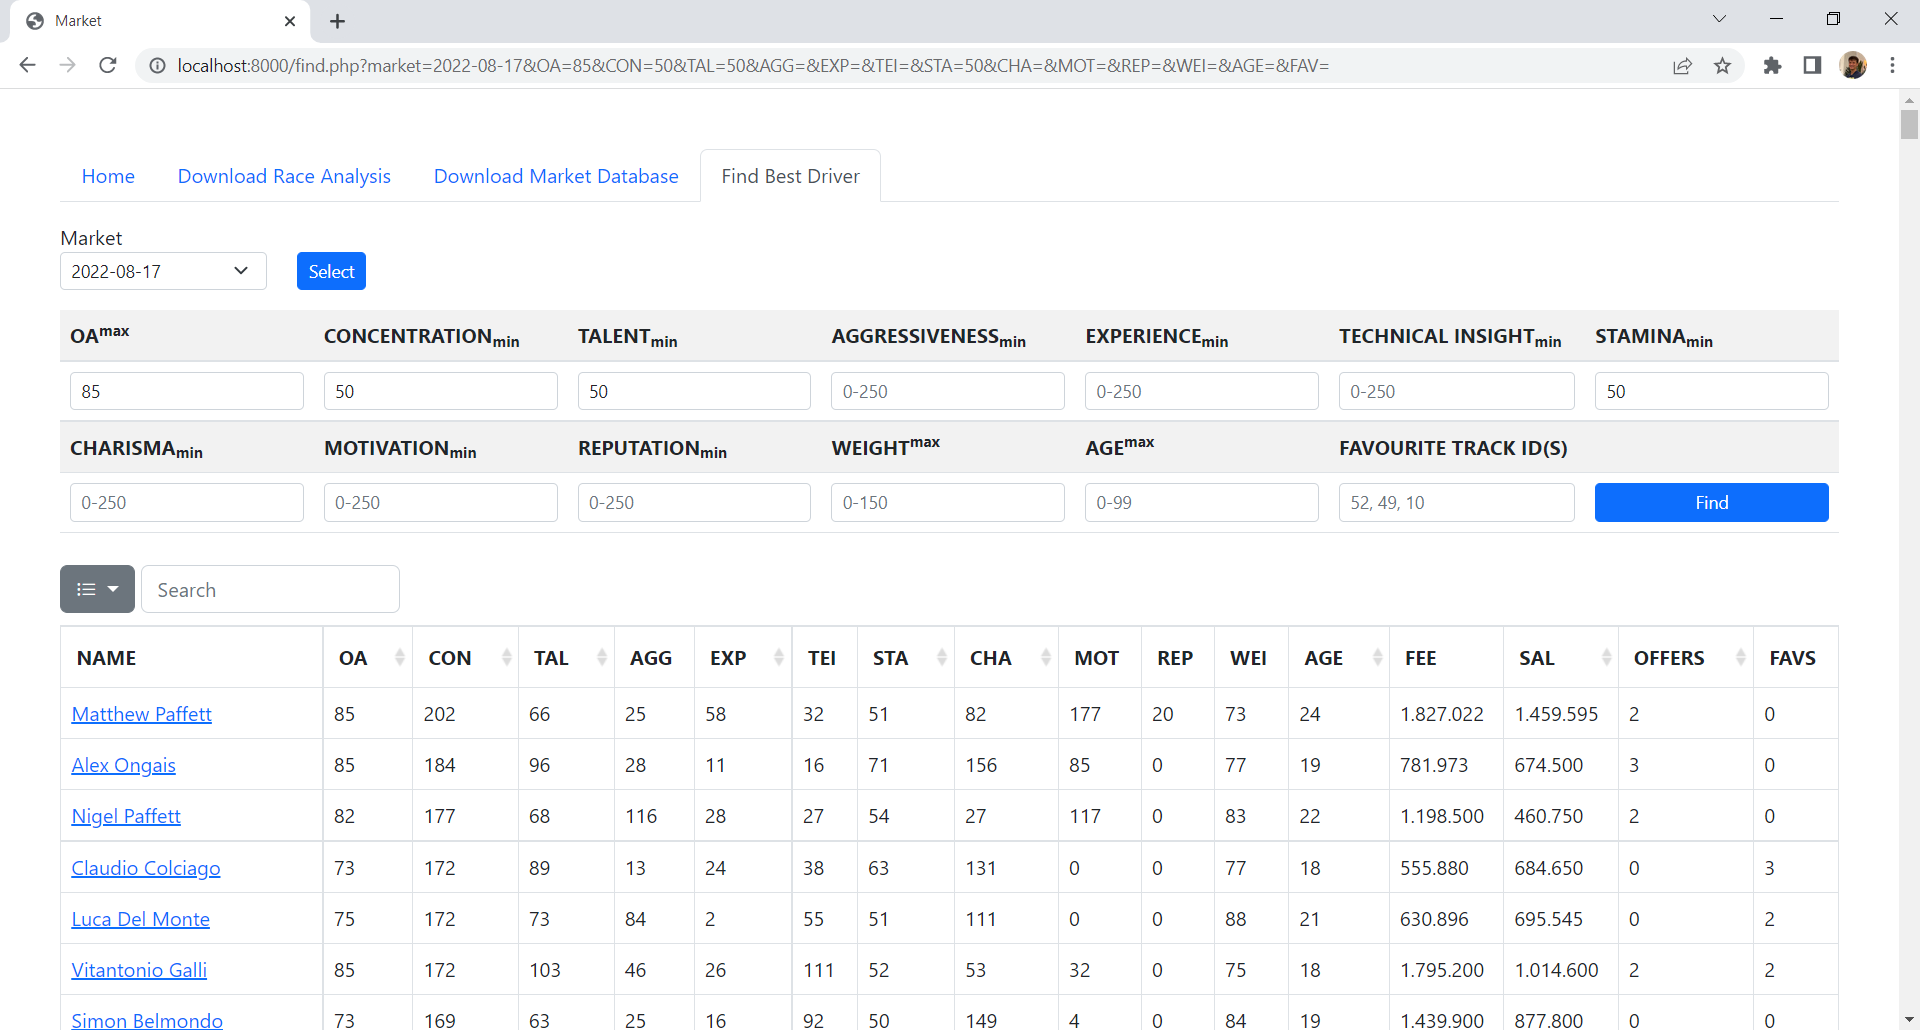
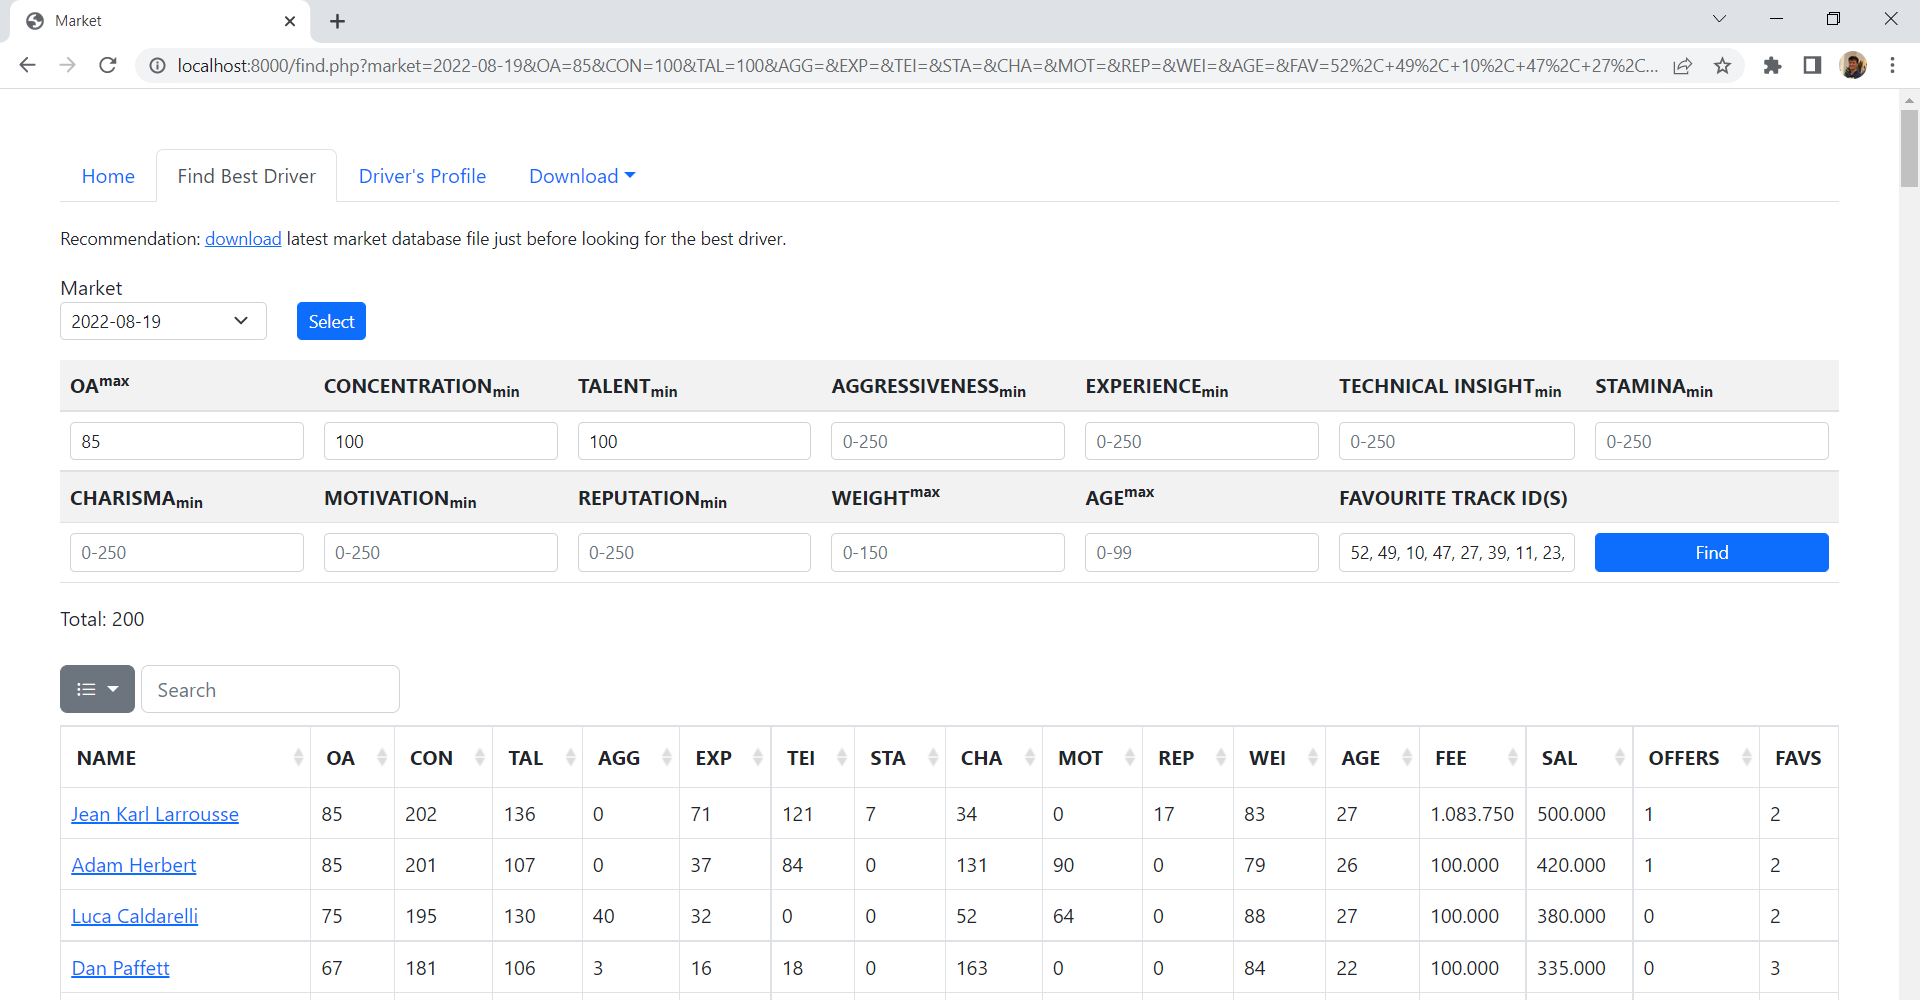
Fix issues, update readme

diff --git a/profile.php b/profile.php
@@ -1,27 +1,35 @@
 <?php
 
 /**
- * Find Driver's Profile by ID among market database files
+ *
+ * Find Driver's Profile by ID against downloaded market database files
  */
+
+// Perform search against limited number of market files
+const MARKET_FILES_LIMIT = 200;
+
 $marketFolder = 'market' . DIRECTORY_SEPARATOR;
 $marketFiles = glob($marketFolder . '*.php');
+rsort($marketFiles);
+$marketFiles = array_slice($marketFiles, 0, MARKET_FILES_LIMIT);
+
 $profile = [];
 $marketFile = '';
 
 if (!empty($_GET['id'])) {
     $driverId = (int) $_GET['id'];
 
-    rsort($marketFiles);
     foreach ($marketFiles as $marketFile) {
         $content = file_get_contents($marketFile);
-        if (false !== strpos($content, "'ID' => $driverId")) {
+        if (false !== strpos($content, "'ID' => $driverId,")) {
             $drivers = require $marketFile;
             foreach ($drivers['drivers'] as $driver) {
                 if ($driver['ID'] === $driverId) {
                     $profile = $driver;
-                    break 2;
+                    break;
                 }
             }
+            break;
         }
     }
 }
@@ -39,7 +47,6 @@ if (!empty($_GET['id'])) {
 
 <body class="m-5">
     <?php
-    $page = pathinfo(__FILE__, PATHINFO_FILENAME);
     include 'nav.php';
     ?>
     <div class="row">
@@ -64,15 +71,17 @@ if (!empty($_GET['id'])) {
                         <button class="btn btn-primary btn-sm">Find</button>
                     </div>
                 </div>
-                <p class="mt-3">
-                    Search will be performed among <b><?= count($marketFiles) ?></b> market database files.
+                <p class="mt-3 mb-0">
+                    Search will be performed against maximum of <b><?= MARKET_FILES_LIMIT ?></b> latest market database files.
+                </p>
+                <p>You have got <b><?= count($marketFiles) ?></b> market database files on your computer.
                 </p>
             </form>
         </div>
         <div class="col w-25">
             <?php if (!empty($profile)) : ?>
                 <p class="text-success">
-                    <b><?= $driver['NAME'] ?></b> (<?= $driver['AGE'] ?>)
+                    <b><a href="https://www.gpro.net/gb/DriverProfile.asp?ID=<?= $driver['ID'] ?>" target="_blank"><?= $driver['NAME'] ?></a></b> (<?= $driver['AGE'] ?>)
                     from database <b><?= $marketFile ?></b>
                 </p>
                 <table class="table table-striped table-sm font-monospace">

diff --git a/find.php b/find.php
@@ -1,5 +1,9 @@
 <?php
 
+/**
+ *
+ * Find best driver on the market
+ */
 $marketFolder = 'market' . DIRECTORY_SEPARATOR;
 
 $marketFiles = glob($marketFolder . '*.php');
@@ -186,7 +190,6 @@ foreach ($driversGrouped as $sortedBy => $driversLevel1) {
 
 <body class="m-5">
 <?php
-$page = pathinfo(__FILE__, PATHINFO_FILENAME);
 include 'nav.php';
 ?>
     <form method="GET">
@@ -195,14 +198,9 @@ include 'nav.php';
             <a href="market.php">Download</a> latest drivers market database file.
         </p>
         <?php endif; ?>
-        <div class="row">
-            <div class="col">
-                Recommendation: <a href="market.php">download</a> latest market database file just before looking for the best driver.
-            </div>
-            <div class="col">
-                <q>The # of offers on drivers can change continuously, and on staff decision day you'll see more differences</q>, said <a href="https://www.gpro.net/gb/forum/ViewTopic.asp?TopicId=30861&PostId=4916975#post4916975" target="_blank">Miel Soeterbroek</a>.
-            </div>
-        </div>
+        <p>
+        <small>Recommendation: <a href="market.php">download</a> latest market database file just before looking for the best driver.</small>
+        </p>
         <div class="w-25 mb-3">
             <label for="market">Market</label>
             <div class="row">

diff --git a/market.php b/market.php
@@ -1,6 +1,7 @@
 <?php
 
 /**
+ *
  * Fetch drivers market into PHP array market/Y-m-d.php
  */
 
@@ -45,11 +46,11 @@ if (php_sapi_name() === 'cli') {
     <meta name="viewport" content="width=device-width, initial-scale=1">
     <title>Download Market Database</title>
     <link href="https://cdn.jsdelivr.net/npm/bootstrap@5.2.0/dist/css/bootstrap.min.css" rel="stylesheet" integrity="sha384-gH2yIJqKdNHPEq0n4Mqa/HGKIhSkIHeL5AyhkYV8i59U5AR6csBvApHHNl/vI1Bx" crossorigin="anonymous">
+    <script defer src="https://cdn.jsdelivr.net/npm/bootstrap@5.1.3/dist/js/bootstrap.bundle.min.js" integrity="sha384-ka7Sk0Gln4gmtz2MlQnikT1wXgYsOg+OMhuP+IlRH9sENBO0LRn5q+8nbTov4+1p" crossorigin="anonymous"></script>
 </head>
 
 <body class="m-5">
     <?php
-    $page = pathinfo(__FILE__, PATHINFO_FILENAME);
     include 'nav.php';
     ?>
     <div class="mt-3"><?= $message ?></div>

diff --git a/postrace.php b/postrace.php
@@ -1,6 +1,7 @@
 <?php
 
 /**
+ *
  * Fetch raw post race analysis seasons/SS/SXXRYY TrackName.html
  */
 
@@ -63,11 +64,11 @@ if (php_sapi_name() === 'cli') {
     <meta name="viewport" content="width=device-width, initial-scale=1">
     <title>Download Race Analysis</title>
     <link href="https://cdn.jsdelivr.net/npm/bootstrap@5.2.0/dist/css/bootstrap.min.css" rel="stylesheet" integrity="sha384-gH2yIJqKdNHPEq0n4Mqa/HGKIhSkIHeL5AyhkYV8i59U5AR6csBvApHHNl/vI1Bx" crossorigin="anonymous">
+    <script defer src="https://cdn.jsdelivr.net/npm/bootstrap@5.1.3/dist/js/bootstrap.bundle.min.js" integrity="sha384-ka7Sk0Gln4gmtz2MlQnikT1wXgYsOg+OMhuP+IlRH9sENBO0LRn5q+8nbTov4+1p" crossorigin="anonymous"></script>
 </head>
 
 <body class="m-5">
 <?php
-$page = pathinfo(__FILE__, PATHINFO_FILENAME);
 include 'nav.php';
 ?>
 <div class="mt-3"><?=$message?></div>

diff --git a/nav.php b/nav.php
@@ -1,4 +1,6 @@
 <?php
+$page = pathinfo($_SERVER['SCRIPT_FILENAME'], PATHINFO_FILENAME);
+
 function linkAttr($page, $currentPage)
 {
     if ($currentPage === $page) {
@@ -6,6 +8,7 @@ function linkAttr($page, $currentPage)
     }
     return 'class="nav-link" href="' . $page . '.php"';
 }
+
 ?>
 <ul class="nav nav-tabs mb-3">
     <li class="nav-item">

diff --git a/index.php b/index.php
@@ -36,7 +36,6 @@ $marketFiles = array_slice($marketFiles, 0, 3);
 
 <body class="m-5">
 <?php
-$page = pathinfo(__FILE__, PATHINFO_FILENAME);
 include 'nav.php';
 ?>
 <div class="row mb-3">

diff --git a/README.md b/README.md
@@ -4,35 +4,39 @@
 ## Features
 - Automatically download post Race Analysis as HTML file
 - Keep track of Drivers Market Database
-- Search for Best Driver incl. by Favourite Track
+- Find Best Driver incl. by Favourite Track
+- Find Driver's Profile
 
 ## Requirements
-- PHP 8 ([PHP for Windows](https://windows.php.net/download), pick zip `Thread Safe` version)
-- Composer ([Installation Windows](https://getcomposer.org/doc/00-intro.md#installation-windows))
+- Microsoft Windows 7 or higher
+- Installed PHP 8 or higher ([PHP for Windows](https://windows.php.net/download))
+- Installed Composer 2 or higher ([Installation Windows](https://getcomposer.org/doc/00-intro.md#installation-windows))
 
 ## Installation
-- Download GPRO Home Server zip from https://github.com/farkhad/gpro/archive/refs/heads/main.zip
-- Extract zip to preferred folder
-- From GPRO Home Server folder run terminal command
-`composer install`
+- Download [GPRO Home Server](https://github.com/farkhad/gpro/archive/refs/heads/main.zip) zip
+- Extract zip to preferred *GPRO Home Server* folder
+- Navigate to *GPRO Home Server* folder and run terminal command `composer install`
 
 ## Configuration
-- Rename `config.example.php` to `config.php`, open `config.php` with Notepad, and setup `USERNAME` and `PASSWORD`
-- Open `postrace.bat` with Notepad, change path, setup Windows Scheduler to run `postrace.bat` after every race
-- Open `homeserver.bat` with Notepad, change path
+- Rename `config.example.php` to `config.php`
+  - Open `config.php` with Notepad, set `USERNAME` & `PASSWORD`
+- Open `postrace.bat`, `homeserver.bat` with Notepad
+  - Set path to *GPRO Home Server* folder
+  - Setup Windows Scheduler to run `postrace.bat` after every race
 
 ## Usage
 ### Automatically
-Launch `homeserver.bat`. When you are finished working on Home Server, press `CTRL+C` and type `Y` in the opened terminal window
+Launch `homeserver.bat` 
+
+When you are finished working on *GPRO Home Server*, press `CTRL+C` and type `Y` in the opened terminal window
 
 ### Manually
-Navigate to folder where GPRO Home Server files reside
-
-Start local web-server by typing `php -S localhost:8000` in your terminal window
+Navigate to *GPRO Home Server* folder and start *GPRO Home Server* by typing terminal command `php -S localhost:8000`
 - http://localhost:8000/ Home page
 - http://localhost:8000/postrace.php Download latest Race Analysis html file
-- http://localhost:8000/market.php Download latest drivers market database file
-- http://localhost:8000/find.php Find best driver on the market
+- http://localhost:8000/market.php Download latest market database file
+- http://localhost:8000/find.php Find best driver
+- http://localhost:8000/profile.php Find driver's profile
 
 ## Screenshots
 ### Download Race Analysis
@@ -41,3 +45,5 @@ Start local web-server by typing `php -S localhost:8000` in your terminal window
 ![](screenshots/market.png)
 ### Find Best Driver
 ![](screenshots/find.png)
+### Find Driver's Profile
+![](screenshots/profile.png)
